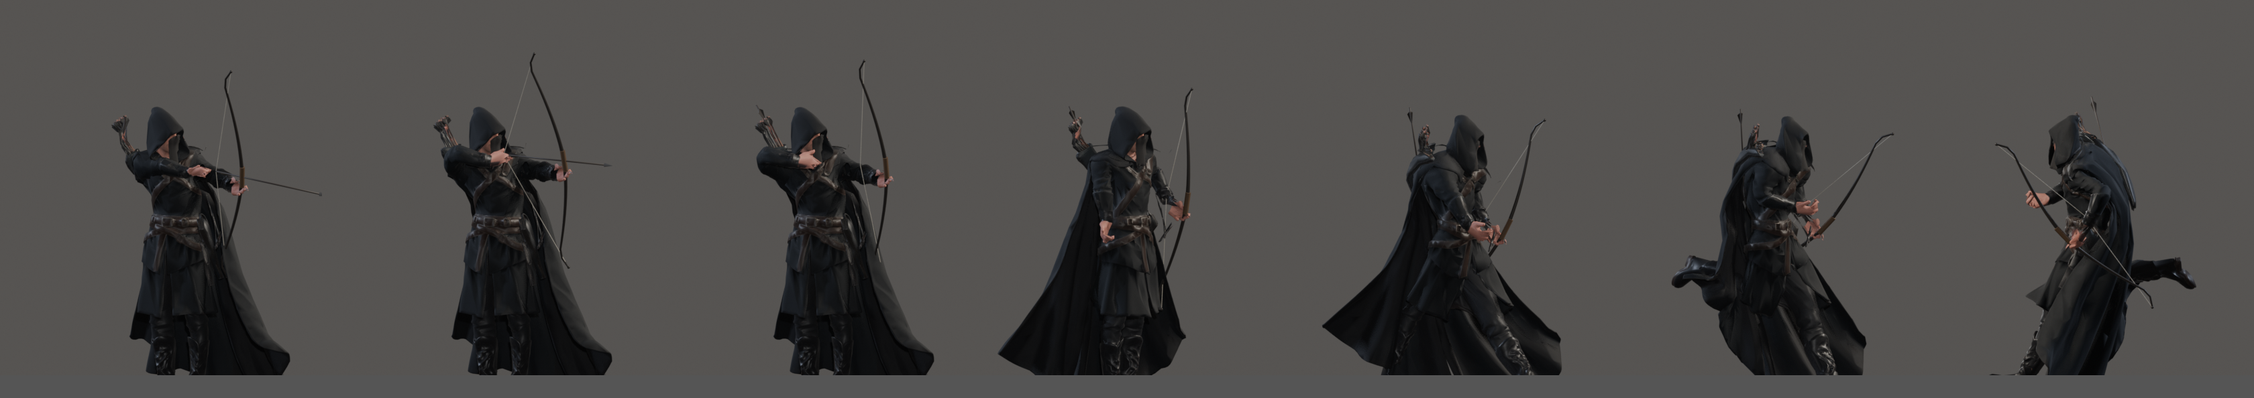
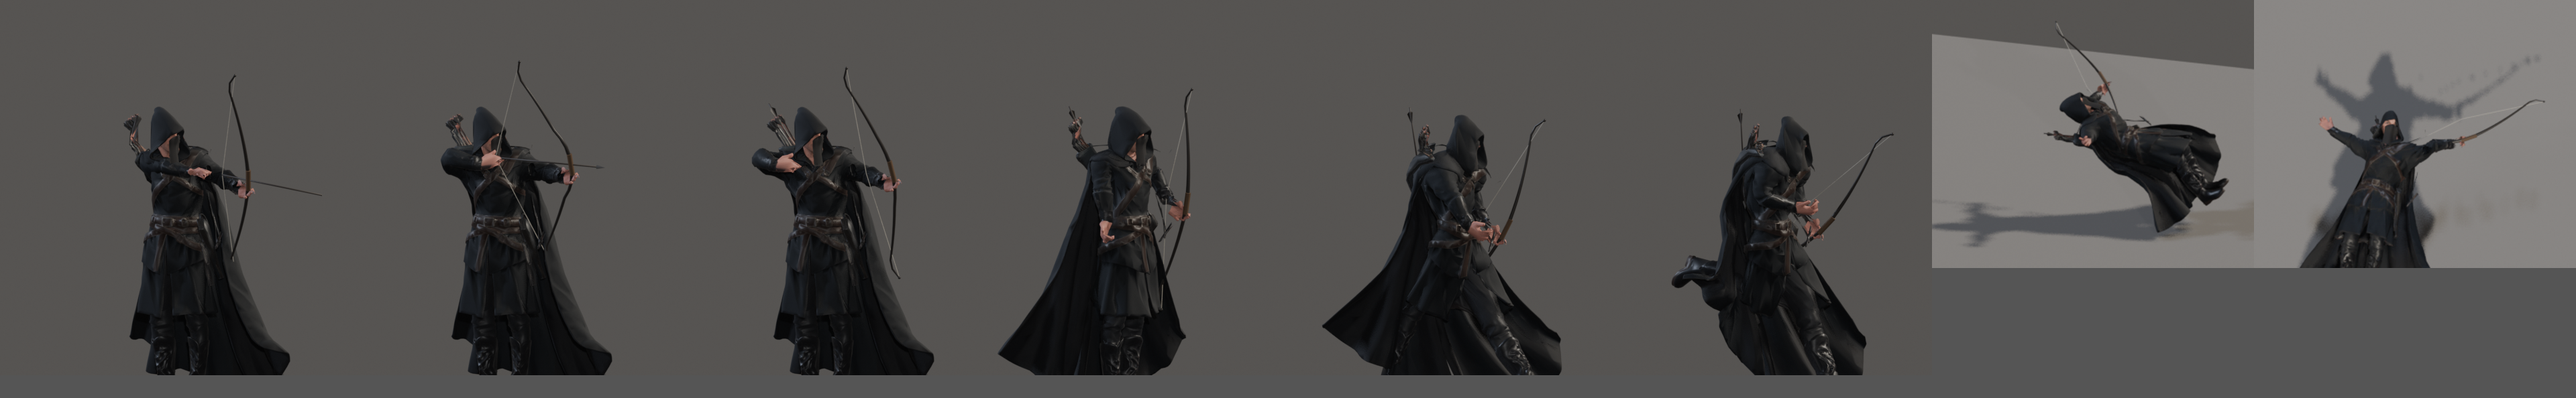
docs: Shadow Ranger hardcore draw + Death in roster doc, pose sheet, viewer source

diff --git a/Tools/Meshy/bestiary/template.html b/Tools/Meshy/bestiary/template.html
@@ -362,7 +362,7 @@ function renderFolio(d) {
       <dt>Stats</dt><dd>${d.stats}</dd>
       <dt>Unity</dt><dd><code>${d.folder.replace("Assets/_Project/Art/Characters/", "Art/Characters/")}</code></dd>
     </dl></section>
-    ${d.cut ? `<p class="cutNote">Cut from the game on 15 Oct 2026. KAN-128 removes it from the waves, code and asset folders.</p>` : ""}${d.kind === "hero" ? `<p class="cutNote">Shoot and Idle are hand-keyed in Blender (IK): side-on stance, canted bow, fists, the string bends to the jaw and the arrow leaves on release. Walk / run keep the Meshy legs and body with a hand-keyed bow arm (bow low at the hip). Hit and death are still missing. Bow, string, arrow and face cloth are new meshes; the fused Meshy bow was cut out.</p>` : ""}${d.kind === "pet" ? `<p class="cutNote">Pets have no game code yet. They float at shoulder height here; the wings move with the body but do not flap (the Meshy rig has no wing bones).</p>` : ""}<p class="note">First-guess numbers from Docs/ENEMY_ROSTER.md. Gameplay is not built yet (KAN-103). Walk and run marked “rig” are Meshy defaults; root motion is frozen here as in Unity.</p>`;
+    ${d.cut ? `<p class="cutNote">Cut from the game on 15 Oct 2026. KAN-128 removes it from the waves, code and asset folders.</p>` : ""}${d.kind === "hero" ? `<p class="cutNote">Shoot and Idle are hand-keyed in Blender (IK): side-on stance, canted bow, fists, the string bends to the jaw and the arrow leaves on release. Walk / run keep the Meshy legs and body with a hand-keyed bow arm (bow low at the hip). Death is hand-keyed and plays once. No hit clip yet. Bow, string, arrow and face cloth are new meshes; the fused Meshy bow was cut out.</p>` : ""}${d.kind === "pet" ? `<p class="cutNote">Pets have no game code yet. They float at shoulder height here; the wings move with the body but do not flap (the Meshy rig has no wing bones).</p>` : ""}<p class="note">First-guess numbers from Docs/ENEMY_ROSTER.md. Gameplay is not built yet (KAN-103). Walk and run marked “rig” are Meshy defaults; root motion is frozen here as in Unity.</p>`;
   for (const b of folio.querySelectorAll(".clips button")) b.addEventListener("click", () => playClip(b.dataset.clip));
 }
 

diff --git a/Docs/ENEMY_ROSTER.md b/Docs/ENEMY_ROSTER.md
@@ -178,7 +178,7 @@ Pet cost: 138 Meshy credits (balance after: 38). Files follow section 1 (SK / A 
 New main hero model: a black hooded bow ranger with a long cape (Lord of the Rings ranger look). Replaces the crossbow Knight look when KAN-153 lands. No game code uses it yet.
 
 **Build:** `Tools/Meshy/build_shadow_ranger.py` (headless Blender) turns the raw Meshy rig (`rigged_meshy.glb` in the job folder) into the final asset. It replaces the first fix (`fix_ranger_weights.py`, deleted). Run:
-`blender -b --python Tools/Meshy/build_shadow_ranger.py -- <job_dir> --stage B --export`, then `Tools/Meshy/install.py` (Unity FBX) and `to_web.py` (viewer). Work file for hand edits: `~/survivor-souls-assets/models/shadow_ranger/ShadowRanger.blend` (everything packed; actions Shoot / Idle / Walking / Running).
+`blender -b --python Tools/Meshy/build_shadow_ranger.py -- <job_dir> --stage B --export`, then `Tools/Meshy/install.py` (Unity FBX) and `to_web.py` (viewer). Work file for hand edits: `~/survivor-souls-assets/models/shadow_ranger/ShadowRanger.blend` (everything packed; actions Shoot / Idle / Walking / Running / Death).
 
 **What the build does**
 - Merges the remesh triangle soup (26.8k -> 9.9k verts) and smooths normals (hard edges > 40 deg kept). Removes the faceted look.
@@ -190,6 +190,8 @@ New main hero model: a black hooded bow ranger with a long cape (Lord of the Rin
 - New arrow `ShadowRanger_Arrow` on a new bone `Arrow` (child of `Spine`): at rest it sits in the quiver; in Shoot it rides the string and goes back to the quiver on release (game spawns the flying arrow then).
 - Right hand curled into a fist (no finger bones: fingers past the knuckle line bent towards the palm in the mesh). The left hand was already closed round the grip; old grip / arrow flakes inside it are cut.
 - Clips, hand-keyed with two-bone IK and baked: `Shoot` (1.0 s loop, 30 fps: ready 0-4, draw 4-14, hold 14-19, **release frame 19 = 0.63 s**, follow-through 19-25, next arrow 27-30). Stance after the user's Legolas reference: hips / feet turned 82 deg off the shot line (feet perpendicular), chest opened back to 46 deg, head fully to the target; bow canted 18 deg (top limb to the archer's right); raise-and-draw (bow arm and string hand start 16 cm low at the set, rise into line during the draw); compact chin anchor (user review 4): the build searches a grid round the chin and keeps the point closest to "just under and beside the chin" whose full draw and follow-through put no arm vertex inside head / hood / cowl (found 2.5 cm from the ideal); elbow tucked, short follow-through past the jaw. The draw hand, forearm and follow-through never enter the head: `Tools/Meshy/check_ranger_clipping.py` reports at most 2 shoulder vertices under the hood hem per frame (was 36 arm vertices up to 5.9 cm deep) and `Idle` (2 s, bow carried upright, breathing). `Walking` / `Running`: Meshy rig clips rebaked: Meshy legs, torso, head and right arm (read from the source F-curves), plus a hand-keyed bow-carry left arm (bow low at the hip, held by the grip, upright and leaning forward 26 / 34 deg, string facing back, small swing in time with the stride). The raw Meshy run pumped the left arm to the face, so the bow swung flat. Rest keys for `Arrow` / `BowString`. Right hand straightened in line with the forearm and turned palm-in (Meshy had it palm-up). Carry hand 16 cm out from the shoulder line, so the limbs clear the thigh / coat (`Tools/Meshy/check_ranger_bow.py`: worst contact 0.4-0.7 cm cloth graze per clip; the grip inside the fist is ignored).
+- Hardcore draw (user review 5): string travel 18 -> 30 cm. Chest turned further side-on (-61 deg), anchor under the back of the jaw (same no-clipping search, now also testing the end of the hold), new bones `BowLimbUp` / `BowLimbLow` (children of `LeftHand` at the grip; limb vertices and string tips skinned to them) flex the bow 13 deg at full draw, overshoot and ring out after the release (frames 20-23). Timing: set 0-3, fast draw 3-10, hold 10-19 with back tension (+3 cm) and a small tremor, release 19, bow dumps forward in the loose grip, hand snaps back. Rig now 28 bones.
+- `Death` (48 frames, 1.6 s, plays once): hit jolt, knees buckle, falls backwards with a slight twist, hits the floor with a small bounce, head rolls; bow arm goes limp and the bow lies flat beside him. Hips move only up / down (no root XZ); a ground pass keeps the lowest body point on z = 0. Unity: `HeroPetArtImporter` sets it to play once.
 - Preview film: `Tools/Meshy/film_shadow_ranger.py` (EEVEE, 1280x720, clips back to back with labels) -> `~/survivor-souls-assets/models/shadow_ranger/ShadowRanger_preview.mp4` (not in git). Clips export one NLA track each (exporting the active action baked a frozen pose).
 
 **Unity files** (`Assets/_Project/Art/Characters/Heroes/ShadowRanger/`)
